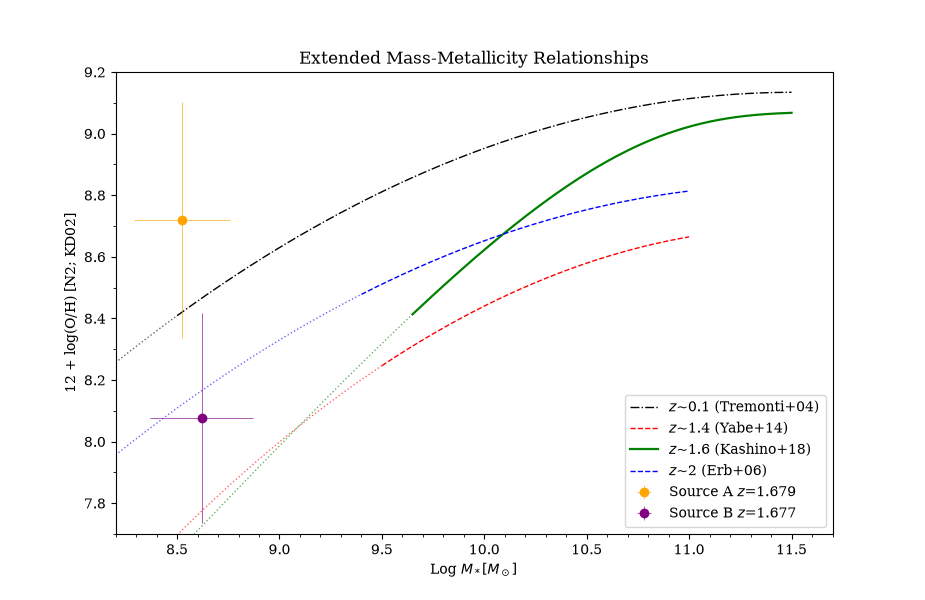
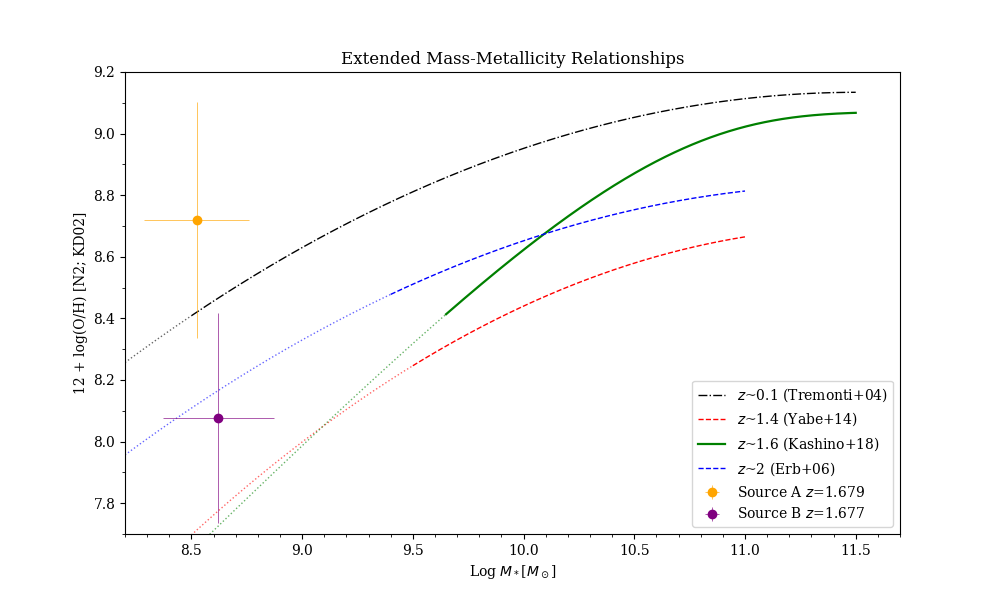
showing muse regions

diff --git a/museregions.py b/museregions.py
@@ -1,0 +1,73 @@
+import os
+
+import numpy as np
+import matplotlib.pyplot as plt
+from astropy.io import fits
+from astropy.wcs import WCS
+import pyregion
+from matplotlib.ticker import MultipleLocator
+
+plt.ion()
+
+#REGION_FILE = './Data/MUSE/regions/7to9region.reg'
+REGION_FILE = './Data/MUSE/regions/3to5region.reg'
+LINE_FILE = './absorption_wls/horseshoe_atoms.dat'
+
+z_B = 1.677  # redshift for source B (repo-wide convention)
+z_A = 1.679
+
+# --- load the cube ---
+hdul = fits.open('./Data/MUSE/muse.fits', memmap=True)
+data_hdu = hdul['DATA']
+stat_hdu = hdul['STAT']
+cube = data_hdu.data          # (n_wave, ny, nx)
+var_cube = stat_hdu.data      # variance, same shape
+header = data_hdu.header
+
+# --- build a *2D* spatial header for the region->mask step ---
+# This is the #1 gotcha: pyregion needs a 2D WCS, not the 3D cube header.
+wcs2d = WCS(header).celestial
+header2d = wcs2d.to_header()
+
+# --- region mask (unions every shape in the region file) ---
+reg = pyregion.open(REGION_FILE)
+mask = reg.get_mask(header=header2d, shape=(header['NAXIS2'], header['NAXIS1']))
+print(f'region mask: {mask.sum()} pixels')
+
+# --- integrate flux (and propagate variance) over the masked spaxels ---
+flux_obs = np.nansum(cube[:, mask], axis=1)
+var_obs = np.nansum(var_cube[:, mask], axis=1)
+err_obs = np.sqrt(var_obs)
+
+hdul.close()
+
+# --- observed-frame wavelength axis, then de-redshift to rest frame ---
+n_wave = header['NAXIS3']
+lam_obs = header['CRVAL3'] + (np.arange(n_wave) + 1 - header['CRPIX3']) * header['CD3_3']
+lam_rest = lam_obs / (1 + z_B)
+
+# --- load the horseshoe absorption line list (rest-frame wavelengths) ---
+horseshoe_ref = np.genfromtxt(LINE_FILE, dtype=str)
+line_names = horseshoe_ref[:, 0]
+line_wl = horseshoe_ref[:, 1].astype(float)
+
+# --- plot ---
+fig, ax = plt.subplots(figsize=(14, 5))
+ax.plot(lam_rest, flux_obs, ds='steps-mid', color='black', lw=0.8)
+ax.fill_between(lam_rest, flux_obs - err_obs, flux_obs + err_obs,
+                 alpha=0.2, color='lightgrey', label='1 sigma')
+
+in_range = (line_wl > lam_rest.min()) & (line_wl < lam_rest.max())
+for name, wl in zip(line_names[in_range], line_wl[in_range]):
+    ax.axvline(wl, color='red', ls='--', alpha=0.5, lw=0.8)
+    ax.text(wl, 1.01, name, transform=ax.get_xaxis_transform(),
+            fontsize=5.5, ha='center', color='red')
+
+ax.xaxis.set_minor_locator(MultipleLocator(10))
+ax.set_xlabel(f'Rest-frame Wavelength [Angstrom] (source B, z={z_B})')
+ax.set_ylabel(f"Flux [{header.get('BUNIT', '')}]")
+ax.set_title(f'MUSE integrated spectrum: z = 1.677 ({os.path.basename(REGION_FILE)})')
+ax.legend(loc='upper right', fontsize=8)
+fig.tight_layout()
+
+plt.show()

diff --git a/compare_twocomponent_B.py b/compare_twocomponent_B.py
@@ -24,7 +24,7 @@ import astropy.units as u
 from astropy.io import fits
 
 import jointfit_all
-import jointfit_twocomponent_B
+import legacy_files.python_files.jointfit_twocomponent_B as jointfit_twocomponent_B
 
 OLD_DIR = './output/joint_fit/jointfit_all'
 NEW_DIR = './output/joint_fit/twocomponent_B'